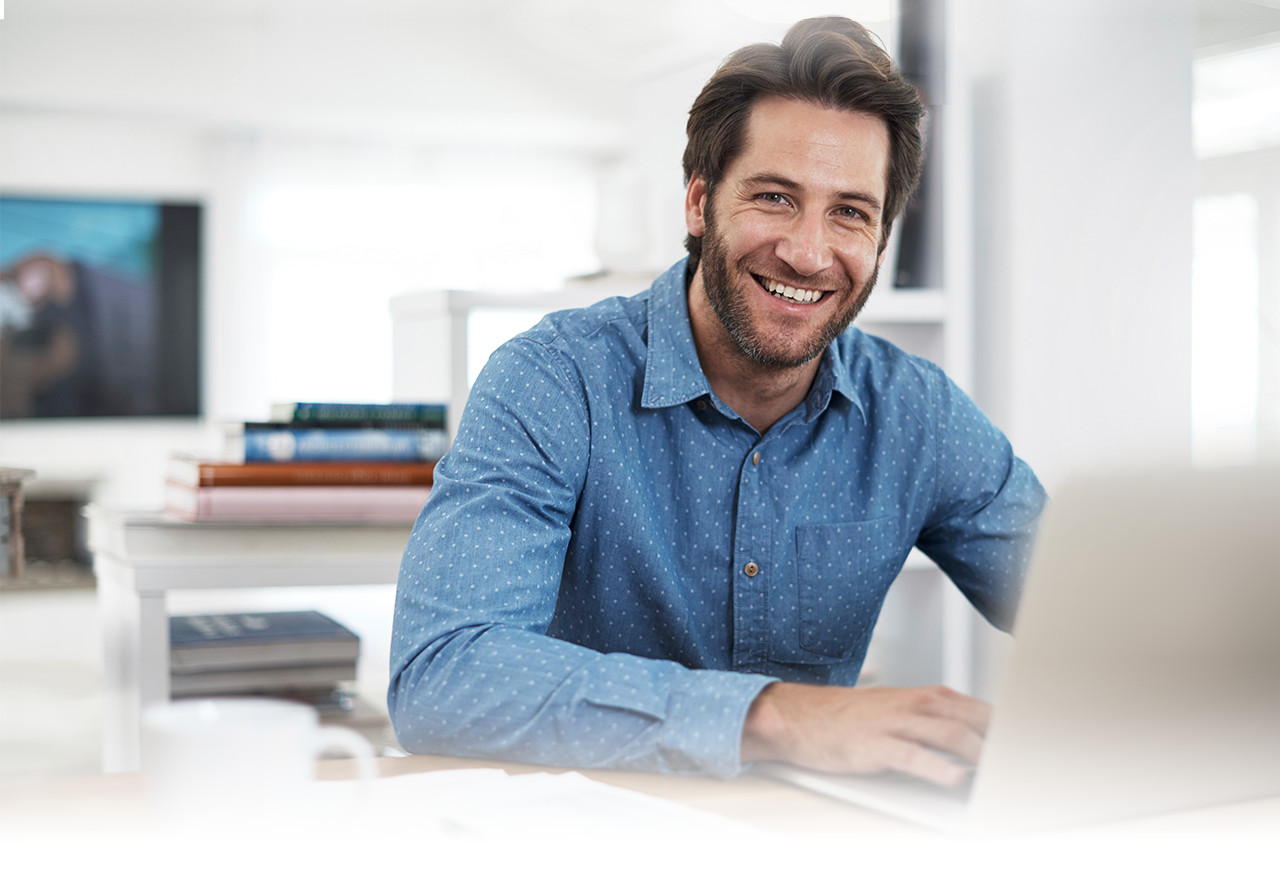
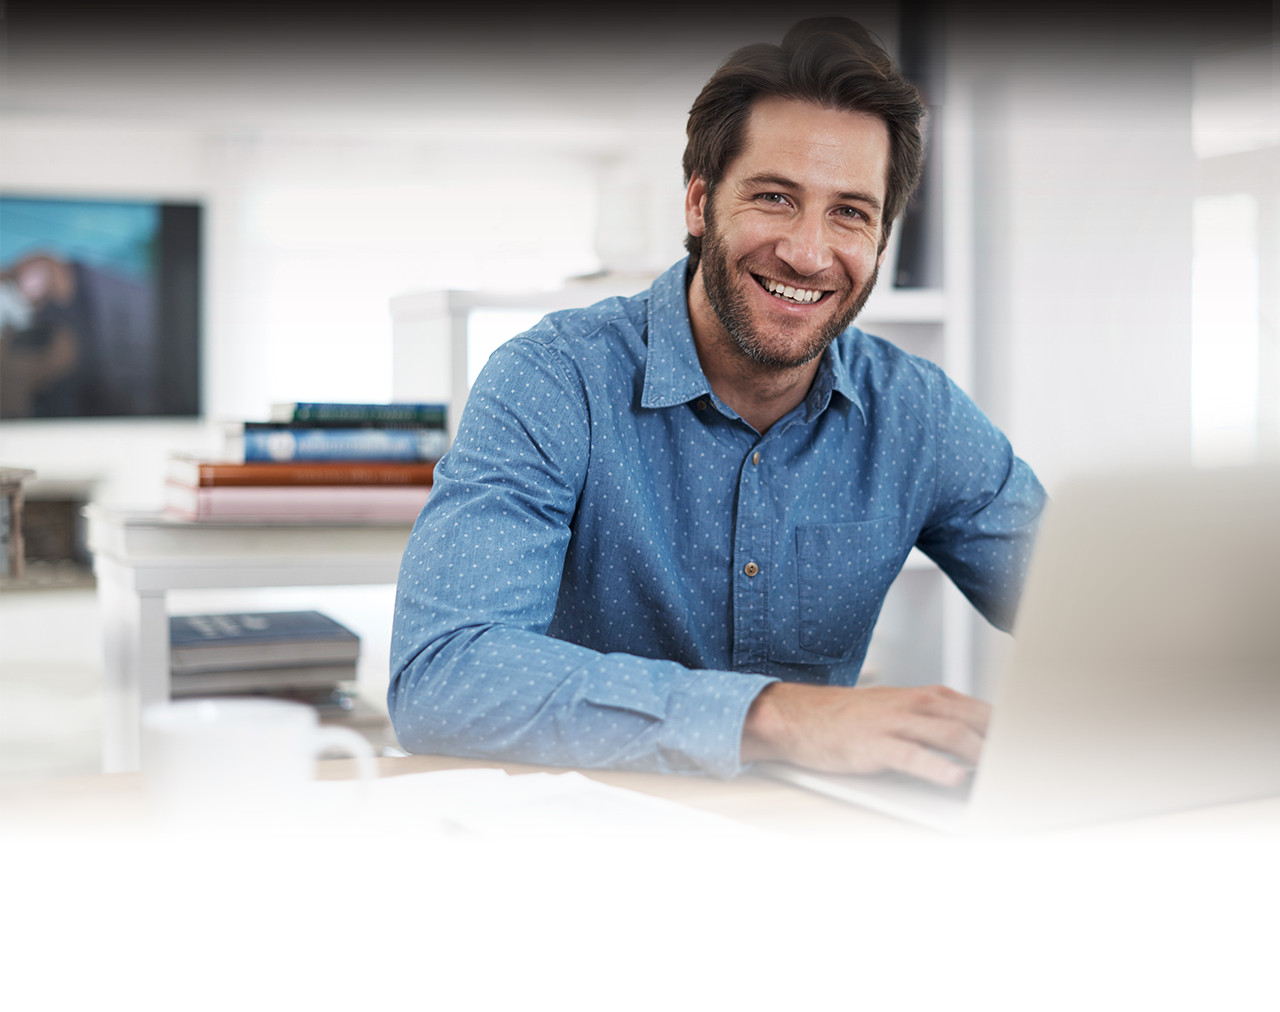
updating layout per design changes

diff --git a/src/main/webapp/app/concierge/concierge.html b/src/main/webapp/app/concierge/concierge.html
@@ -3,25 +3,25 @@
 <div class="drsl-content-container" ng-cloak>
     <div class="row">
         <div class="col-md-12">
-            <h4 style="text-transform: uppercase;font-weight: bold;color:#F48B3D;margin-bottom: 25px;margin-left: 65px;">incident support</h4>
             <div style="display: flex; flex-flow: row;">
                 <div
                     style="flex: auto; background-color: #FFFFFF; margin-right:50px;box-shadow: 0px 0px 20px rgba(0, 0, 0, 0.25);">
-                    <div
-                        style="display:flex; align-items:center; height:70px;background-color: #8C7161;padding-left:20px;text-transform: uppercase; color: #F5F1EE; font-size: 20px;font-weight: bold;">
-                        expert chat
+                    <div class="drsl-sub-header"
+                        style="display:flex; flex-flow: row; align-items:center; height:70px;background-color: #8C7161;padding-left:20px;padding-right:20px;text-transform: uppercase; color: #F5F1EE; font-size: 20px;font-weight: bold;">
+                        <div style="flex: 1">concierge chat</div>
+                        <div style="flex: 1;text-align: right;color:#838584;">incident support</div>
                     </div>
                 </div>
                 <div
                     style="flex: auto; max-width:470px; background-color: #FFFFFF;box-shadow: 0px 0px 20px rgba(0, 0, 0, 0.25);">
-                    <div
+                    <div class="drsl-sub-header"
                         style="display:flex; align-items:center; height:70px;background-color: #8C7161;padding-left:20px;text-transform: uppercase; color: #F5F1EE; font-size: 20px;font-weight: bold;">
                         case details
                     </div>
                     <div style="padding:20px 20px 20px 20px;">
                         <incident-radio target-data="radio.selectedValue" radio-data="radio" ng-repeat="radio in vm.caseDetails.radios"></incident-radio>
 
-                        <div class="well" ng-show="vm.product.selectedValue" style="margin-bottom: 40px;">
+                        <div class="well" ng-show="vm.canShowProductDetails()" style="margin-bottom: 40px;">
                             <h4 style="margin-top: 0;">{{vm.product.selectedValue}}</h4>
                             <div style="margin-left:20px;margin-bottom:4px;"
                                  ng-repeat="selectedincidentType in vm.product.incidentTypeSelections">
@@ -43,7 +43,7 @@
                                         {{incidentType.label}}
                                     </button>
                                     <div ng-show="incidentType.type && incidentType.type === 'field'">
-                                        <input type="text" ng-model="incidentType.label">
+                                        <input type="text" class="form-control" style="display: inline-block;width:150px;" ng-model="incidentType.label">
                                         <button  type="button"
                                                 class="btn btn-primary"
                                                 ng-click="vm.product.incidentTypeSelections.push(incidentType)">
@@ -69,7 +69,7 @@
                         </div>
 
                         <div style="display: flex;flex-flow: column;align-items: center;margin-top: 40px;">
-                            <div style="flex: inherit"><button type="submit" class="drsl-custom-button"><span>get<br/>support</span></button></div>
+                            <div style="flex: inherit"><button type="submit" class="drsl-custom-button"><span>get started</span></button></div>
                         </div>
                     </div>
                 </div>

diff --git a/src/main/webapp/app/components/login/login.html b/src/main/webapp/app/components/login/login.html
@@ -17,24 +17,20 @@
             <div class="col-md-12">
                 <form class="form" role="form" ng-submit="vm.login($event)">
                     <div class="row">
-                        <div class="col-md-9">
-                        <div class="form-group">
-                            <!--<label for="username" translate="global.form.username">Login</label>-->
-                            <input type="text" class="form-control" id="username" placeholder="{{'global.form.username.placeholder' | translate}}" ng-model="vm.username">
-                        </div>
-                        <div class="form-group">
-                            <!--<label for="password" translate="login.form.password">Password</label>-->
-                            <input type="password" class="form-control" id="password" placeholder="{{'login.form.password.placeholder' | translate}}"
-                                   ng-model="vm.password">
-                        </div>
-                        </div>
-                        <div class="col-md-3">
-                            <!--<button type="submit" class="btn btn-primary" translate="login.form.button">Sign in</button>-->
-                            <div class="drsl-sign-in">
-                                <button type="submit" class="drsl-custom-button"><span>sign in</span></button>
+                        <div class="col-md-12">
+                            <div class="form-group">
+                                <!--<label for="username" translate="global.form.username">Login</label>-->
+                                <input type="text" class="form-control" id="username" placeholder="{{'global.form.username.placeholder' | translate}}" ng-model="vm.username">
+                            </div>
+                            <div class="form-group">
+                                <!--<label for="password" translate="login.form.password">Password</label>-->
+                                <input type="password" class="form-control" id="password" placeholder="{{'login.form.password.placeholder' | translate}}"
+                                       ng-model="vm.password">
+                            </div>
+                            <div class="drsl-sign-in sr-only sr-only-focusable">
+                                <button type="submit" class="btn btn-primary" translate="login.form.button">Sign in</button>
                             </div>
                         </div>
-
                     </div>
                     <!--<div class="form-group">-->
                         <!--<label for="rememberMe">-->

diff --git a/src/main/webapp/scss/main.scss b/src/main/webapp/scss/main.scss
@@ -13,8 +13,7 @@
         position: absolute;
         top: 0px;
         left: 0px;
-        background: $background-color url("../images/global/nv-bkg.jpg") repeat-x;
-        opacity: 0.9;
+        background: transparent;
         width: 100%;
         height: $nav-height;
         z-index: 1;
@@ -26,6 +25,16 @@
     background-color: $content-container-color;
     margin-left: -15px;
     margin-right: -15px;
+    &:before {
+        content: ' ';
+        display: block;
+        position: absolute;
+        top: 0px;
+        left: 0px;
+        background: transparent url("../images/global/nv-bkg.png") repeat-x;
+        width: 100%;
+        height: 320px;
+    }
 }
 
 .drsl-no-padding {
@@ -39,7 +48,7 @@
 
     .badge-wrapper {
         position: absolute;
-        top: 41.80%;
+        top: 36.5%;
         width: 100%;
         height: 150px;
     }
@@ -58,7 +67,7 @@
 
     .drsl-sections-wrapper {
         position: absolute;
-        bottom: -80px;
+        bottom: 50px;
         left: 0;
         width: 100%;
         text-align: center;
@@ -126,12 +135,6 @@
     }
 }
 
-.drsl-sign-in {
-    position: absolute;
-    top: -5px;
-    left: 0px;
-}
-
 .drsl-incident-radio {
     display: flex;
     flex-flow: row;
@@ -152,7 +155,7 @@
 
         hr {
             position: absolute;
-            top: 75%;
+            top: 70%;
             left: 0;
             width: 100%;
             margin: 0px;
@@ -174,11 +177,36 @@
         label {
             margin: 0;
             cursor: pointer;
+            font-weight: normal;
         }
 
         input {
             cursor: pointer;
         }
     }
+
+
+    input[type="radio"] {
+        display:none;
+    }
+    input[type="radio"] + label span {
+        display:inline-block;
+        width:17px;
+        height:17px;
+        cursor:pointer;
+        background-color: #ffffff;
+        border: 3px solid #B0AFB4;
+        border-radius: 50%;
+        margin-top:5px;
+    }
+    input[type="radio"]:checked + label span {
+        background-color: $brand-color;
+        border: 3px solid $brand-color;
+    }
+}
+
+.drsl-sub-header {
+    background: rgb(53,48,45);
+    background: linear-gradient(to bottom,  rgba(53,48,45,1) 0%,rgba(77,67,75,1) 50%,rgba(53,48,45,1) 100%);
 }
 

diff --git a/src/main/webapp/app/concierge/concierge.controller.js b/src/main/webapp/app/concierge/concierge.controller.js
@@ -17,6 +17,7 @@
         vm.getProducts = getProducts;
         vm.getIncidentTypes = getIncidentTypes;
         vm.removeIncidentType = removeIncidentType;
+        vm.canShowProductDetails = canShowProductDetails;
 
         vm.caseDetails = {
             description: '',
@@ -59,6 +60,10 @@
                         {
                             label: 'Security',
                             value: 'Security',
+                        },
+                        {
+                            label: 'Other',
+                            value: 'Other',
                         }
                     ],
                     selectedValue: ''
@@ -264,6 +269,11 @@
                                     ]
                                 }
                             ]
+                        },
+                        {
+                            label: 'Other',
+                            value: 'Other',
+                            incidentTypes: []
                         }
                     ],
 
@@ -338,6 +348,22 @@
             if (index !== -1) {
                 vm.product.incidentTypeSelections.splice(index, incidentTypesLength);
             }
+        }
+
+        function canShowProductDetails() {
+            var canShow = false,
+                hasIncidentTypes;
+
+            if (vm.product.selectedValue) {
+                canShow = true;
+
+                hasIncidentTypes = vm.product.values.filter(function (o) {
+                    return o.value === vm.product.selectedValue;
+                })[0].incidentTypes.length;
+
+            }
+
+            return canShow && hasIncidentTypes;
         }
     }
 })();

diff --git a/src/main/webapp/scss/_overrides.scss b/src/main/webapp/scss/_overrides.scss
@@ -14,8 +14,11 @@
     z-index: 2;
     color: $nav-text-color;
 
-    .navbar-brand.logo .logo-img {
+    .navbar-brand {
         height: inherit;
+        &.logo .logo-img {
+            height: inherit;
+        }
     }
 }
 
@@ -73,5 +76,32 @@
                 visibility: hidden;
             }
         }
+    }
+}
+
+.btn {
+    &.btn-primary {
+        background-color: #B0AFB4;
+        border-color: #9C9FA3;
+
+        &:active, &:hover, &:focus {
+            background-color: #B0AFB4;
+            border-color: #9C9FA3;
+        }
+    }
+
+    &.btn-success {
+        background-color: $brand-color;
+        border-color: $brand-border-color;
+
+        &:active, &:hover, &:focus {
+            background-color: $brand-color;
+            border-color: $brand-border-color;
+        }
+
+        .badge {
+            color:  $brand-color;
+        }
+
     }
 }

diff --git a/src/main/webapp/app/concierge/incident-radio.directive.js b/src/main/webapp/app/concierge/incident-radio.directive.js
@@ -17,7 +17,7 @@
                             '<div class="drsl-radio-wrapper">' +
                                 '<div class="drsl-radio-set">' +
                                     '<div class="drsl-radio-item" ng-repeat="radio in radioData.values">' +
-                                        '<div><label>{{radio.label}}<br/><input name="{{radioData.id}}" type="radio" ng-model="$parent.targetData" value="{{radio.value}}"></label></div>' +
+                                        '<div><input name="{{radioData.id}}" id="incidentRadio_{{$id}}" type="radio" ng-model="$parent.targetData" value="{{radio.value}}"><label for="incidentRadio_{{$id}}">{{radio.label}}<br><span></span></label></div>' +
                                     '</div>' +
                                 '</div>' +
                                 '<hr />' +

diff --git a/src/main/webapp/app/home/home.html b/src/main/webapp/app/home/home.html
@@ -6,7 +6,7 @@
                 <div class="badge-wrapper">
                     <div class="drsl-badge"><img src="content/images/landing-page/on-demand-badge.png" /></div>
                     <div class="drsl-connect-now">
-                        <div class="drsl-custom-button" ng-click="vm.concierge()"><span>connect<br/>now</span></div>
+                        <div class="drsl-custom-button" ng-click="vm.concierge()"><span>connect now</span></div>
                     </div>
                 </div>
                 <div class="drsl-sections-wrapper">

diff --git a/src/main/webapp/scss/_variables.scss b/src/main/webapp/scss/_variables.scss
@@ -10,12 +10,15 @@ $form-field-placeholder-color: #F8F8F8;
 $form-field-background-color: #DBDBDB;
 $content-container-color: #E5E5E5;
 
-$custom-button-color: #F48B3D;
+$brand-color: #F48B3D;
+$brand-border-color: #E58C38;
+
+$custom-button-color: $brand-color;
 $custom-button-size: 150px;
 $custom-button-shadow: 0px 5px 40px rgba(0, 0, 0, 0.5);
 $custom-button-text-color: #FFFFFF;
 $custom-button-font-size: 30px;
-$custom-button-line-height: 30px;
+$custom-button-line-height: .95em;
 
 // Dimensions
 $site-max-width: 1280px;
